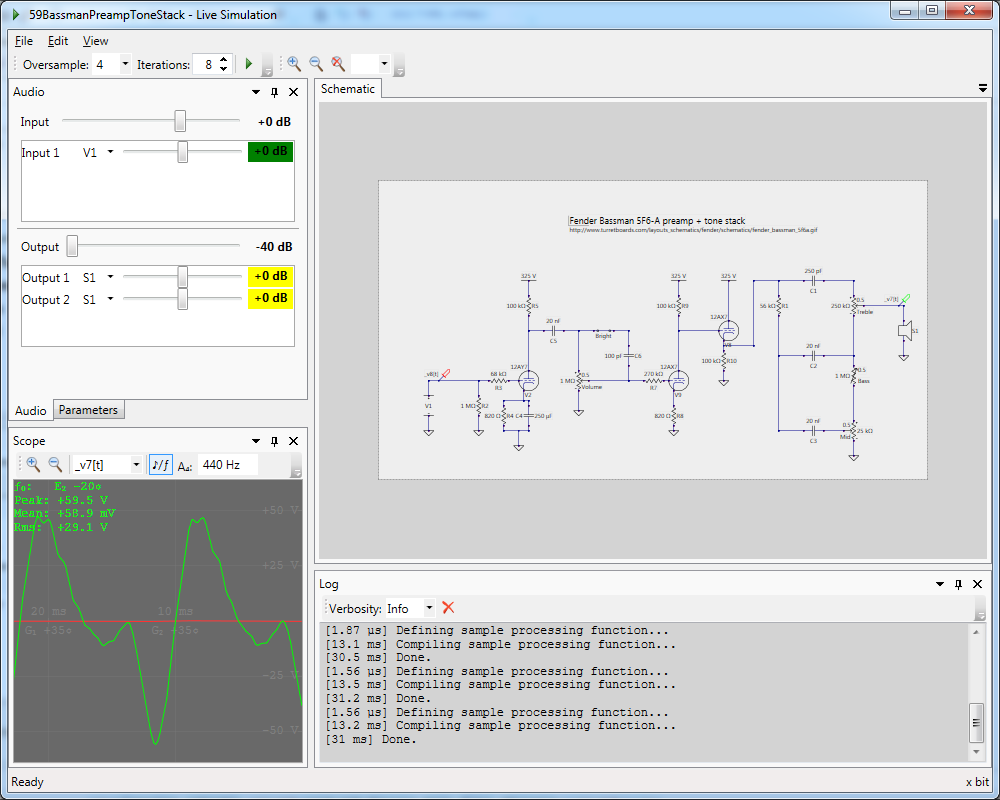
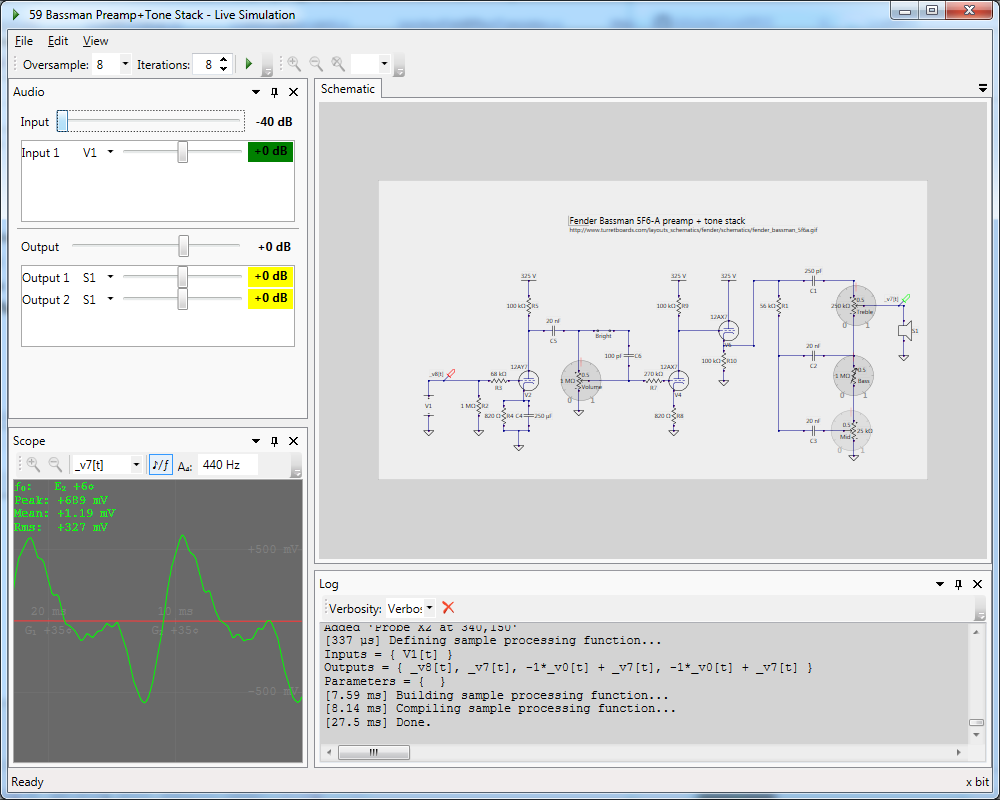
Updated website for new features/screenshots

diff --git a/Website/index.html b/Website/index.html
@@ -152,6 +152,10 @@
 
                 <section id="features">
                     <h2>Features</h2>
+                    <div class="picturebox" style="float:right;width:400px;"><a data-lightbox="examples" href="img/pots.png" title="Dynamic potentiometer controls.">
+                        <img src="img/pots.png" alt="Dynamic poteniometer controls."></a>
+                        <p><strong>Fender Bassman 5F6-A tone stack</strong> controls available during simulation.</p>
+                    </div>
                     <p>The obligatory bullet point feature list:</p>
                     <ul>
                         <li><strong>Real time, low latency simulations of circuits for live audio signals.</strong></li>
@@ -161,7 +165,9 @@
                         <li>Small but growing <strong>library of component and part models</strong>, including op-amps, transistors, 
                             vacuum tubes, transformers, and more. Custom components can easily be added to the library by simply saving
                             them in the library.</li>
+                        <li>Support for a subset of <strong>SPICE model types</strong> enables utilization of existing SPICE component libraries.</li>
                         <li><strong>Supports ASIO audio devices</strong> for ultra low latency audio processing.</li>
+                        <li><strong>Dynamically adjust control components</strong> such as potentiometers and variable resistors during simulation.</li>
                     </ul>
                     <h3>Coming Soon</h3>
                     <p>Planned future features and improvements but <strong>not yet implemented:</strong></p>
